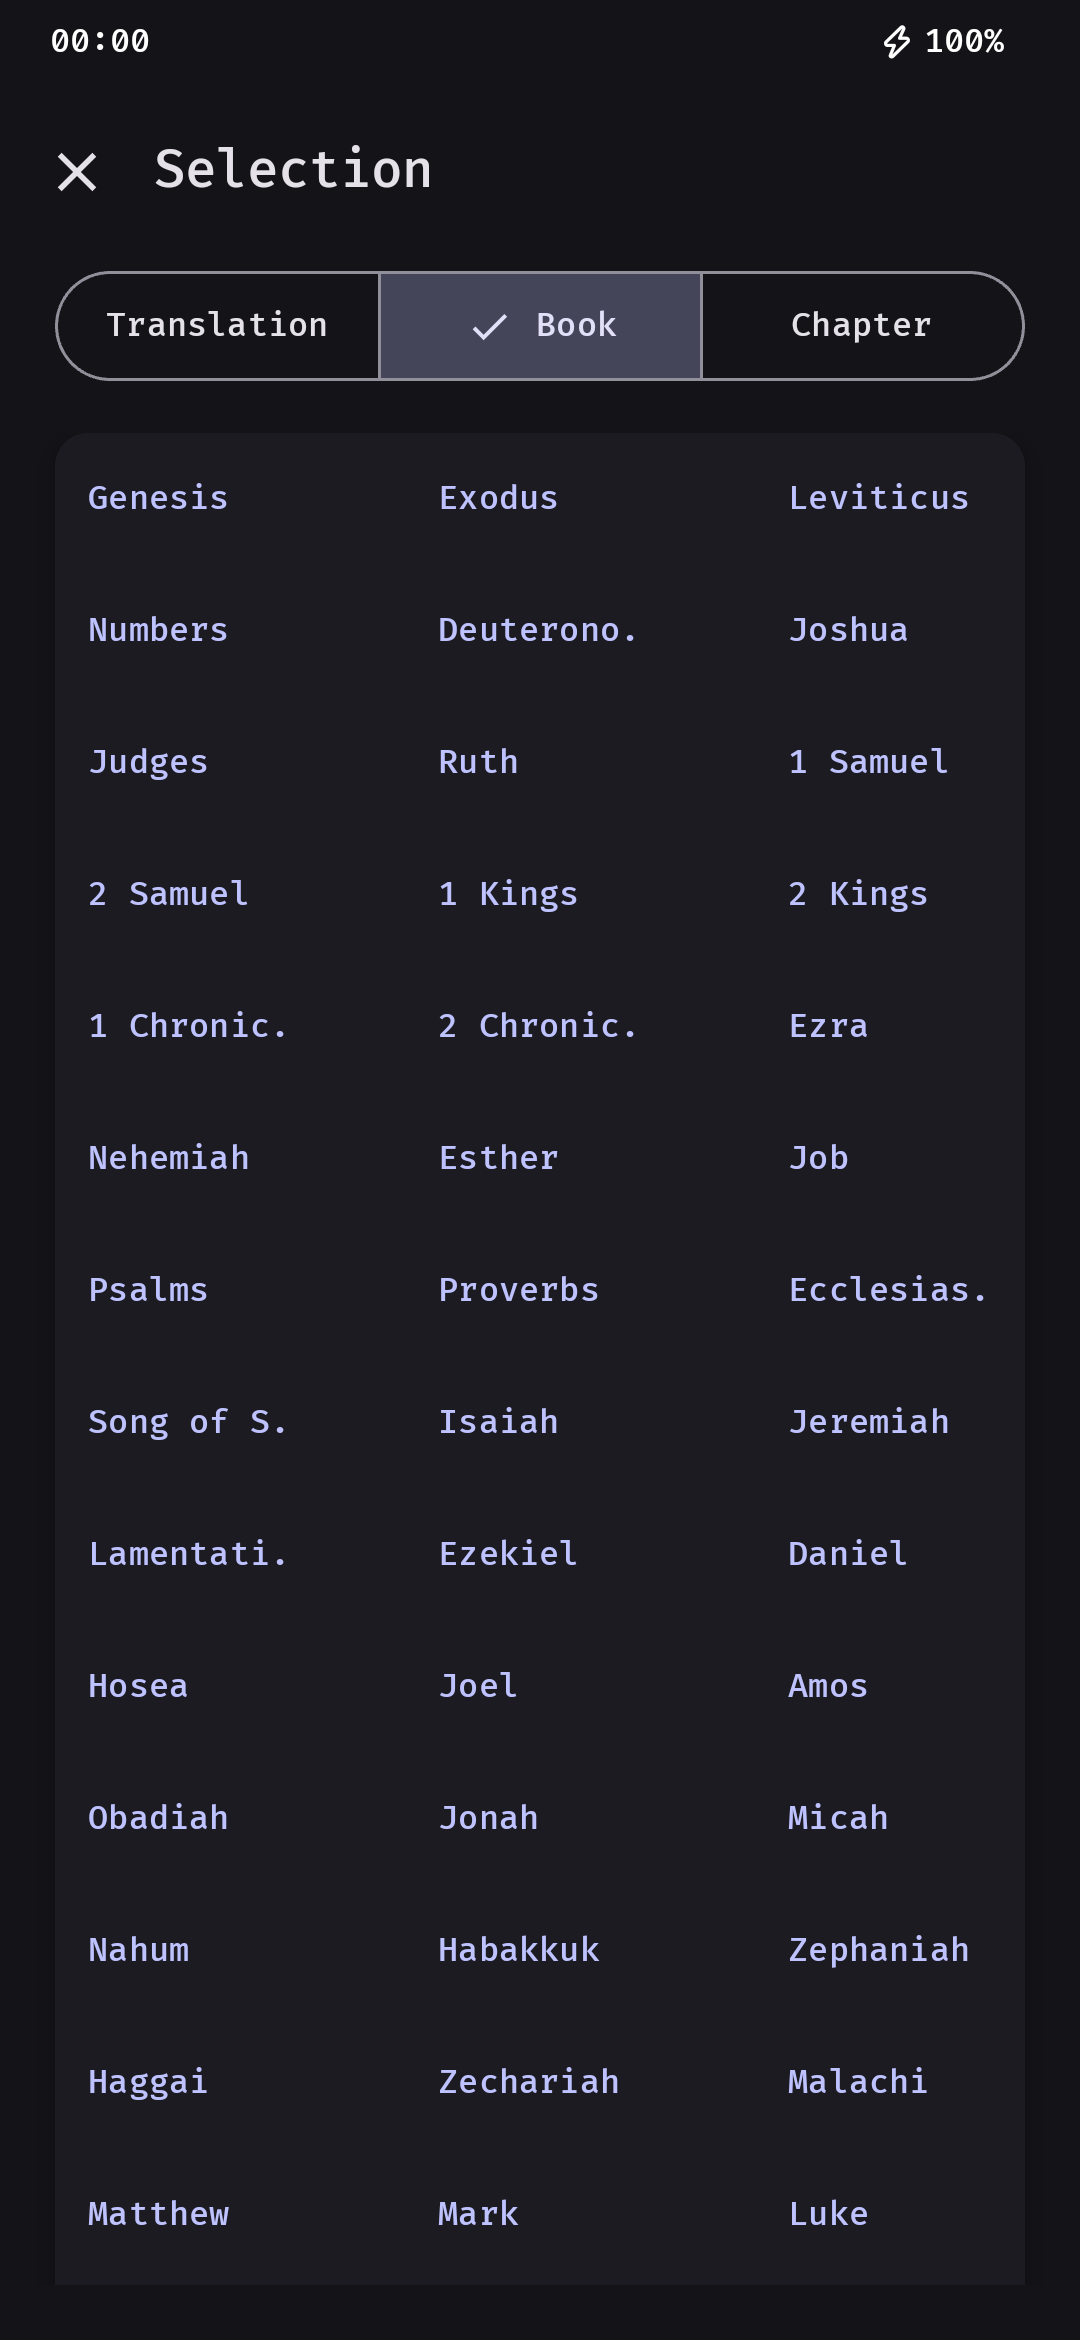
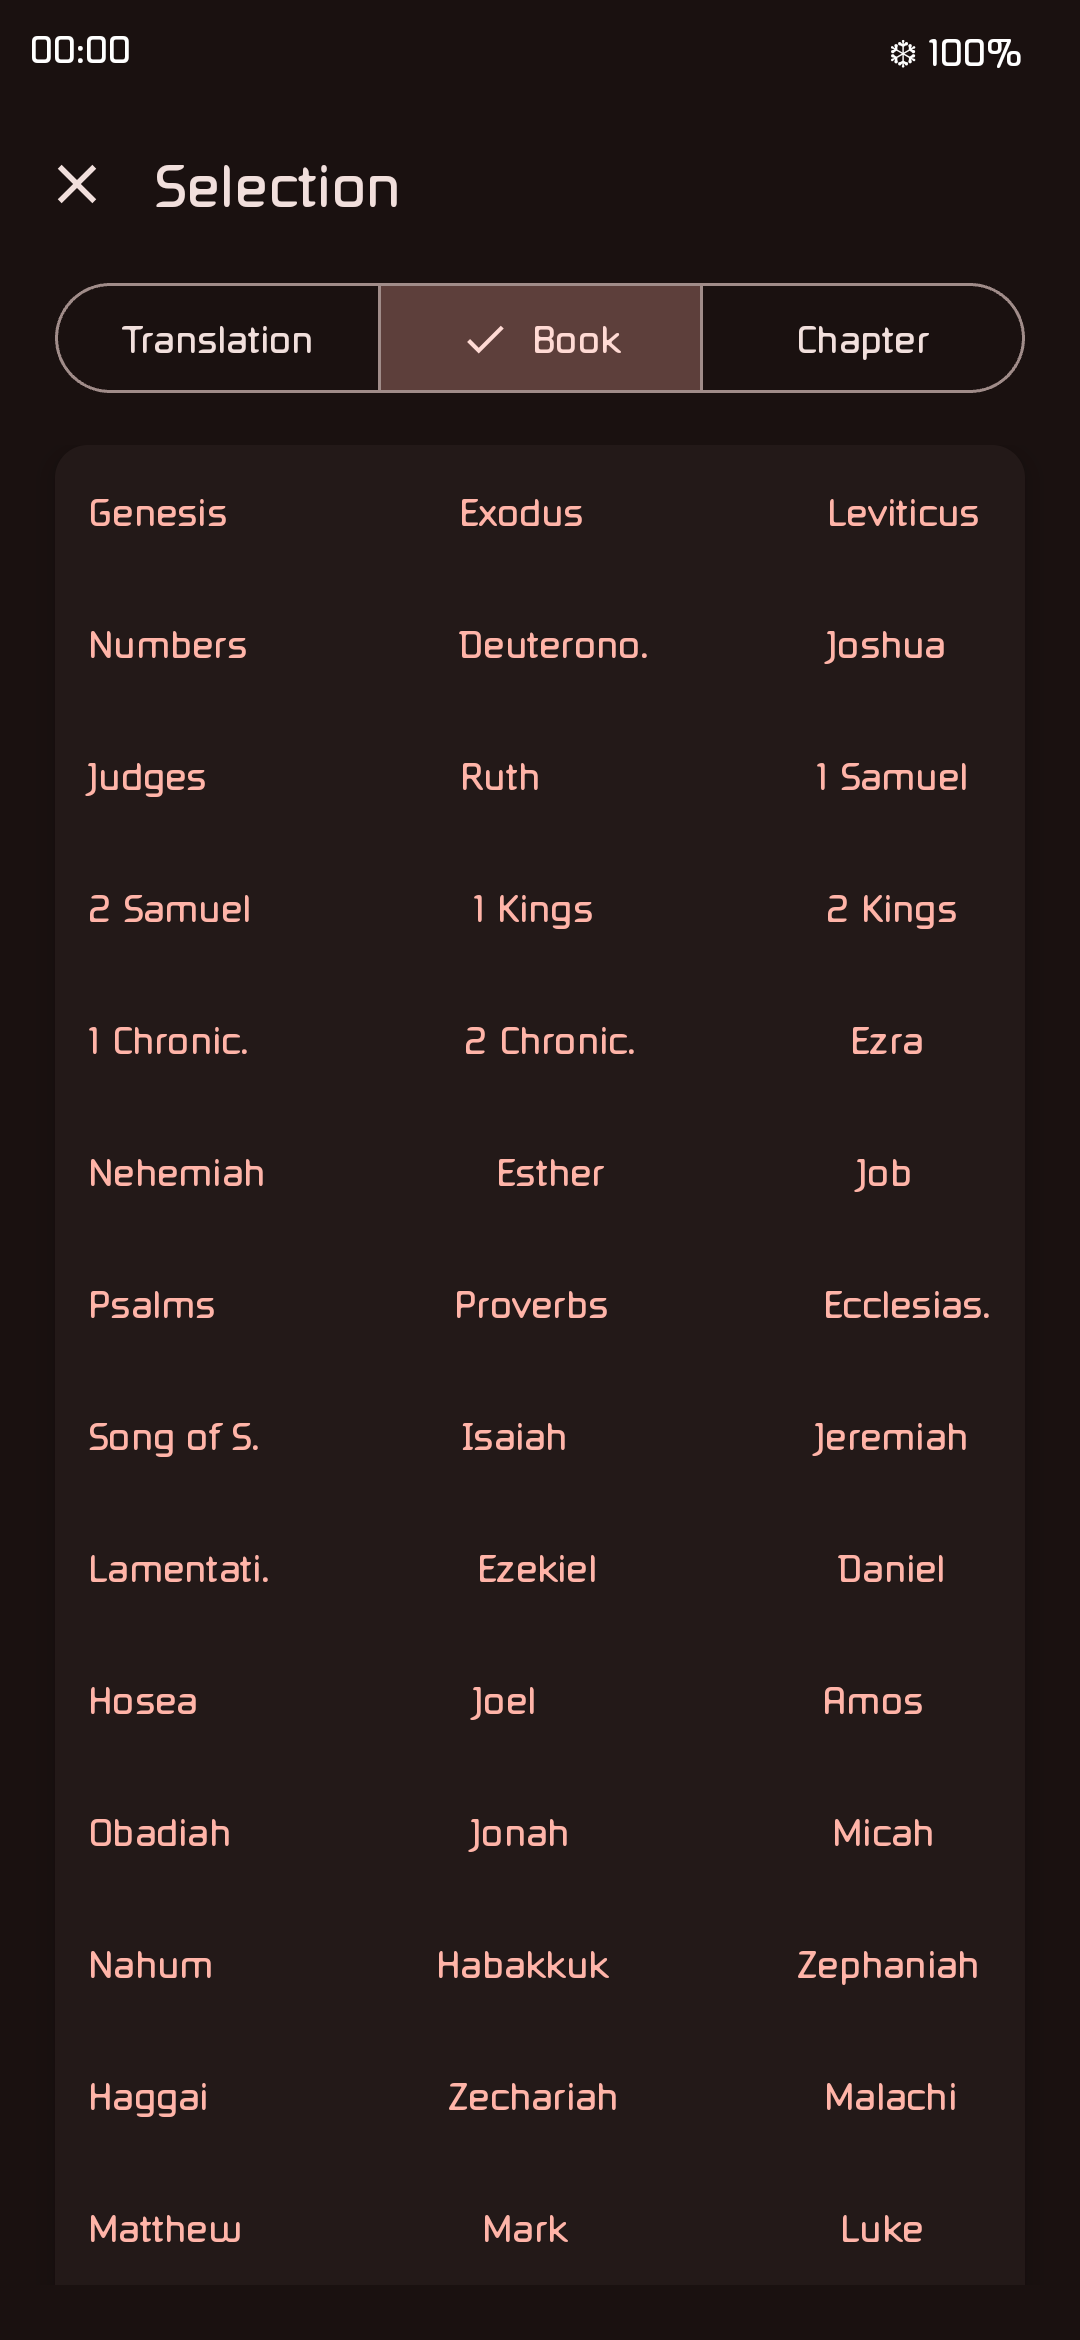
chore: bump to 1.6.0

diff --git a/CHANGELOG.md b/CHANGELOG.md
@@ -2,11 +2,40 @@
 
 All notable changes to this project will be documented in this file.
 
+## [1.6.0] - 2025-02-25
+
+### 🚀 Features
+
+- *(settings)* Add `Google Play` link
+- *(theme)* Add custom theme based on app icon color
+
+### 🎨 Styling
+
+- Cleanup dependencies
+- Cleanup dependencies again
+
+### ⚙ Miscellaneous Tasks
+
+- Auto-merge dependabot PRs
+- *(auto-merge)* Declare repo
+- *(auto-merge)* Remove condition
+- *(auto-merge)* Fix last commit
+- *(auto-merge)* Squash instead if merge
+- *(codeql)* Disable for dependabot
+
+### ◀ Revert
+
+- Ci(codeql): disable for dependabot
+
 ## [1.5.2] - 2025-01-22
 
 ### 🐛 Bug Fixes
 
 - Selecting smaller translation at first launch
+
+### ⚙ Miscellaneous Tasks
+
+- Bump to 1.5.2
 
 ## [1.5.1] - 2025-01-22
 
